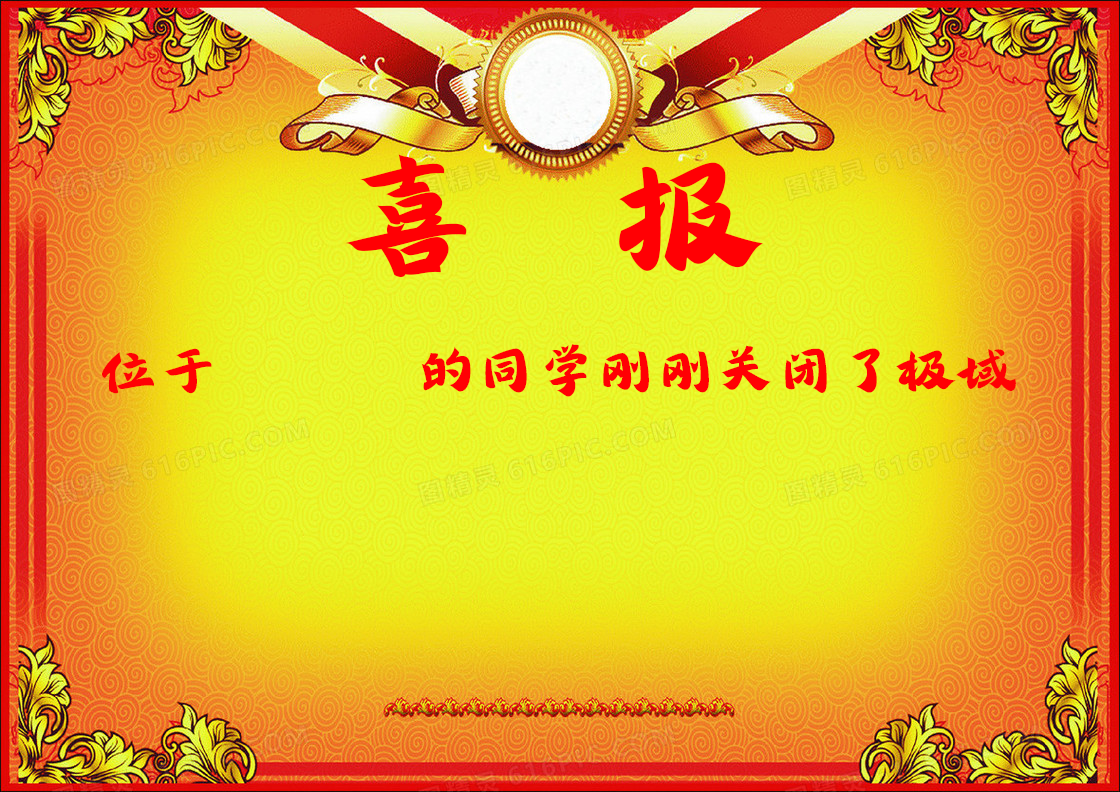
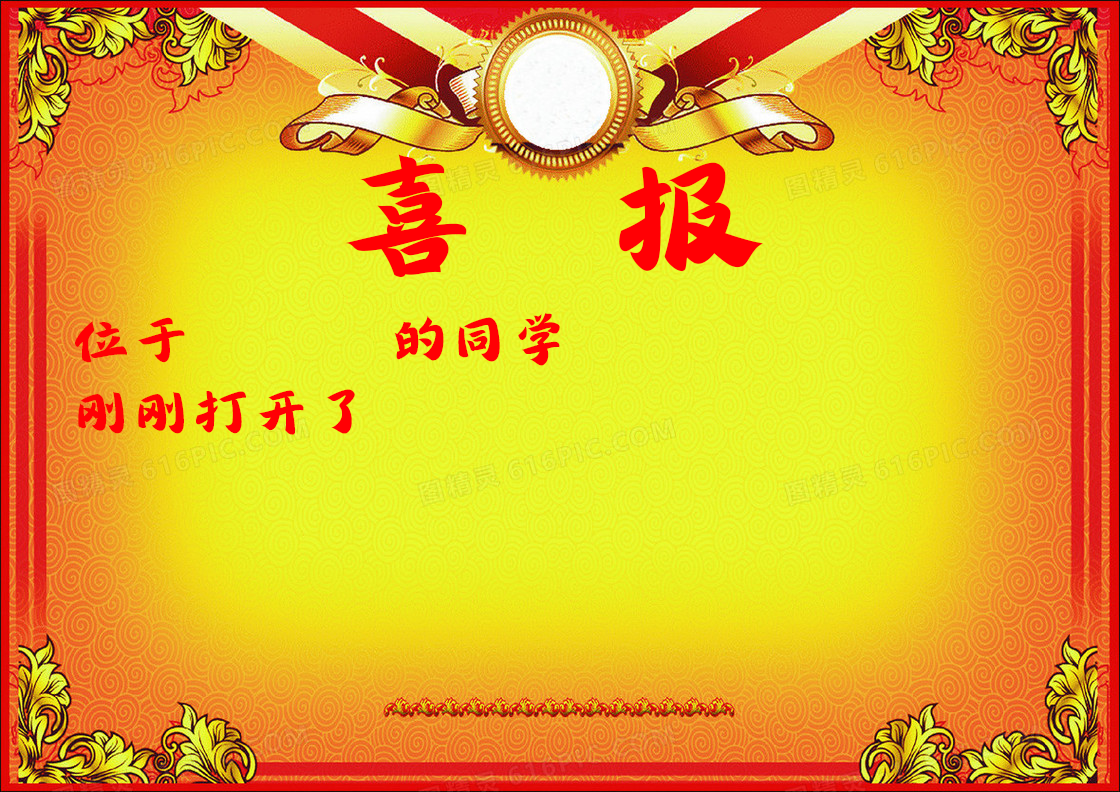
更新了ui的展示方式

Changed region(s): [[0.3438, 0.3939, 0.9062, 0.5152], [0.0625, 0.3939, 0.3125, 0.5455]]

diff --git a/src/index.css b/src/index.css
@@ -25,8 +25,8 @@ body, html {
     font-family: Arial, sans-serif;
     color: rgb(255, 0, 0);
     position: fixed;
-    left: 100px;
-    top: 200px;
+    left: 175px;
+    top: 275px;
     margin-bottom: 20px;
 }
 
@@ -38,8 +38,8 @@ body, html {
     font-family: Arial, sans-serif;
     color: rgb(255, 0, 0);
     position: fixed;
-    left: 500px;
-    top: 250px;
+    left: 380px;
+    top: 350px;
     margin-bottom: 20px;
 }
 

diff --git a/src/index.html b/src/index.html
@@ -15,7 +15,7 @@
             <div class="text"></div>
         </div>
         <div class="text-box-app"></div>
-        <img src="capture.jpg" alt="Camera" class="image">
+        <img src="recvImg.jpg" alt="Camera" class="image">
     </div>
     <audio autoplay loop>
         <source src="Congrats.mp3" type="audio/mp3">
